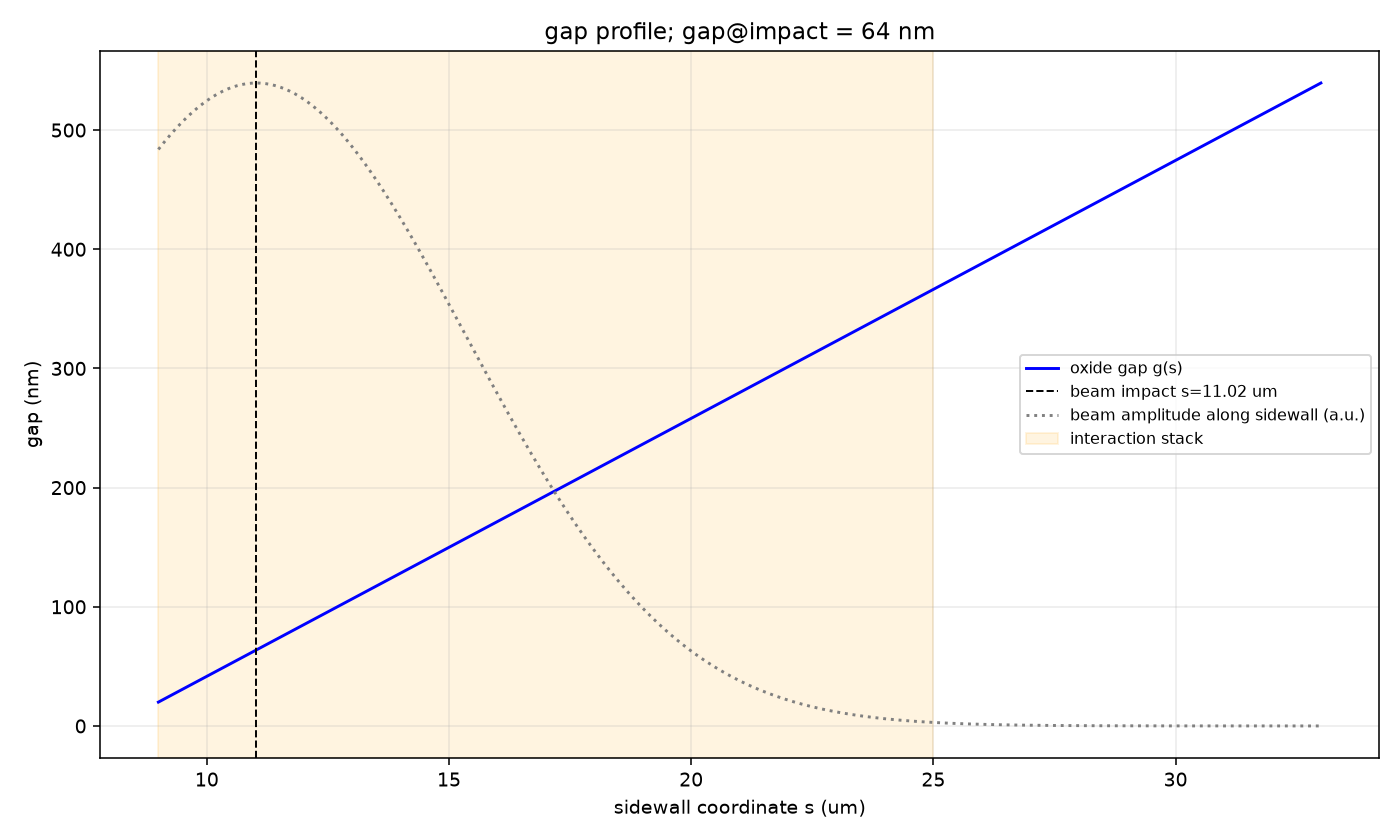
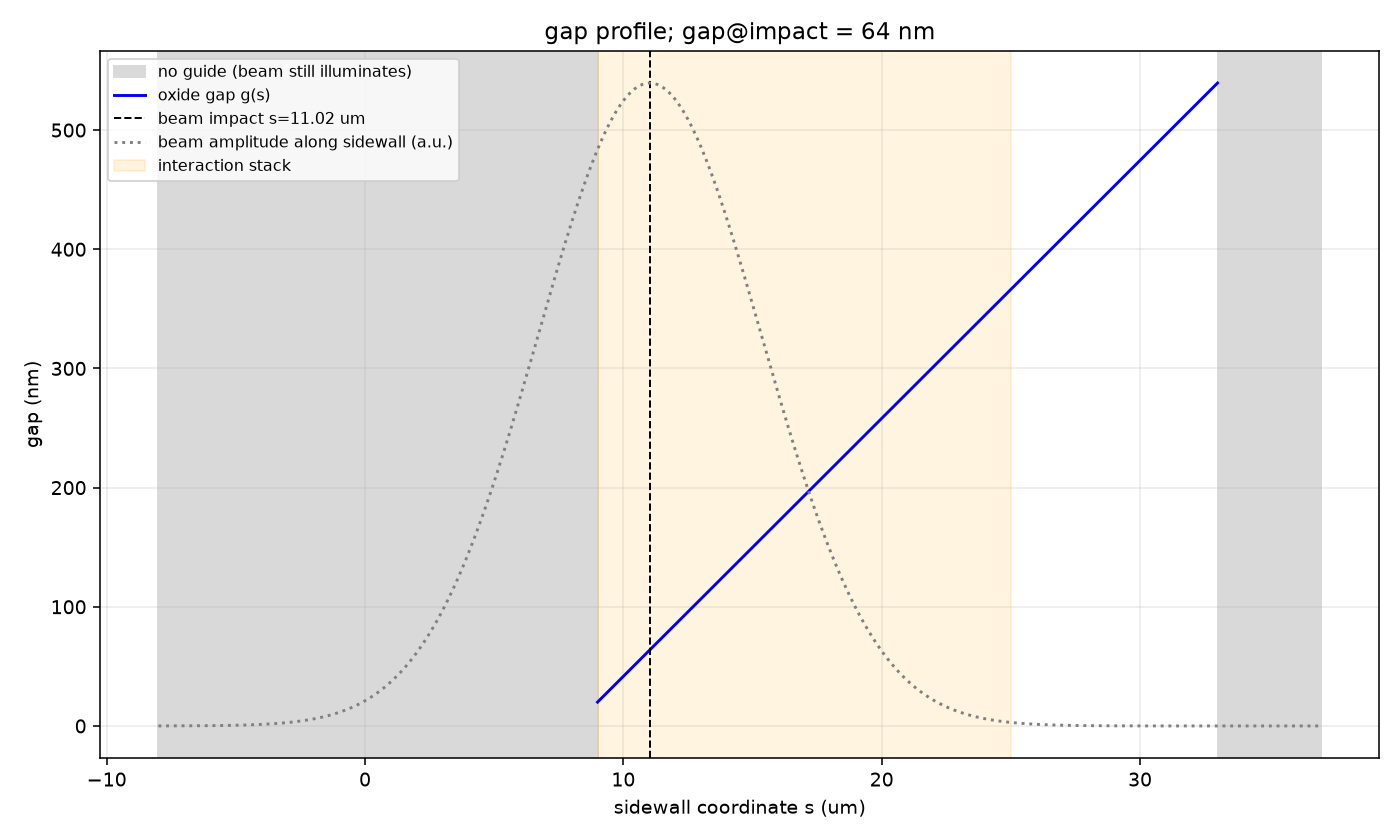
docs: show full beam footprint and no-guide region in gap figure

diff --git a/20260918_volumetric_edge_coupling/scripts/make_figures.py b/20260918_volumetric_edge_coupling/scripts/make_figures.py
@@ -74,17 +74,22 @@ def fig_geometry(cfg: CouplerConfig, out: Path) -> None:
 def fig_gap_profile(cfg: CouplerConfig, out: Path) -> None:
     plan = make_plan(cfg)
     g = cfg.geometry
-    s = np.linspace(g.stack_start_um - g.guide_ext_up_um,
-                    g.stack_start_um + g.stack_length_um + g.guide_ext_down_um, 400)
+    s_lo = g.stack_start_um - g.guide_ext_up_um
+    s_hi = g.stack_start_um + g.stack_length_um + g.guide_ext_down_um
+    # guide region: gap only defined here (do not extrapolate into negative gap)
+    s = np.linspace(s_lo, s_hi, 400)
     gap = np.array([g.gap_at(v) * 1000 for v in s])
-    # beam amplitude along the sidewall (transverse coordinate is y)
-    ys = plan.r_top[1] - s * math.sin(g.alpha_rad)
+    # full beam footprint along the sidewall, including the no-guide region
+    s_all = np.linspace(min(-8.0, s_lo - 4), max(34.0, s_hi + 4), 800)
+    ys = plan.r_top[1] - s_all * math.sin(g.alpha_rad)
     amp = np.exp(-((ys - cfg.source.y_source_um) / cfg.source.w0_um) ** 2)
     s_imp = g.s_impact(cfg.source.y_source_um)
     fig, ax = plt.subplots(figsize=(10, 6))
+    ax.axvspan(s_all[0], s_lo, color="0.85", label="no guide (beam still illuminates)")
+    ax.axvspan(s_hi, s_all[-1], color="0.85")
     ax.plot(s, gap, "b-", label="oxide gap g(s)")
     ax.axvline(s_imp, color="k", ls="--", lw=1, label=f"beam impact s={s_imp:.2f} um")
-    ax.plot(s, amp * gap.max(), color="0.5", ls=":", label="beam amplitude along sidewall (a.u.)")
+    ax.plot(s_all, amp * gap.max(), color="0.5", ls=":", label="beam amplitude along sidewall (a.u.)")
     ax.axvspan(g.stack_start_um, g.stack_start_um + g.stack_length_um, color="orange", alpha=0.12,
                label="interaction stack")
     ax.set_xlabel("sidewall coordinate s (um)")

diff --git a/20260918_volumetric_edge_coupling/reports/figs/provenance.md b/20260918_volumetric_edge_coupling/reports/figs/provenance.md
@@ -6,3 +6,4 @@ Each row records the configuration hash, effective branch, mesh, run time and so
 |---|---|---|---|---|---|
 | 2026-09-19T09:29:04-0700 | a141f928c7857c42 | ez | 25.0/60.0 | meep=1.34.0 |
 | 2026-09-19T09:38:31-0700 | 176bba02c866a273 | hz | 25.0/60.0 | meep=1.34.0 |
+| 2026-09-19T09:39:41-0700 | 176bba02c866a273 | hz | 25.0/60.0 | meep=1.34.0 |
